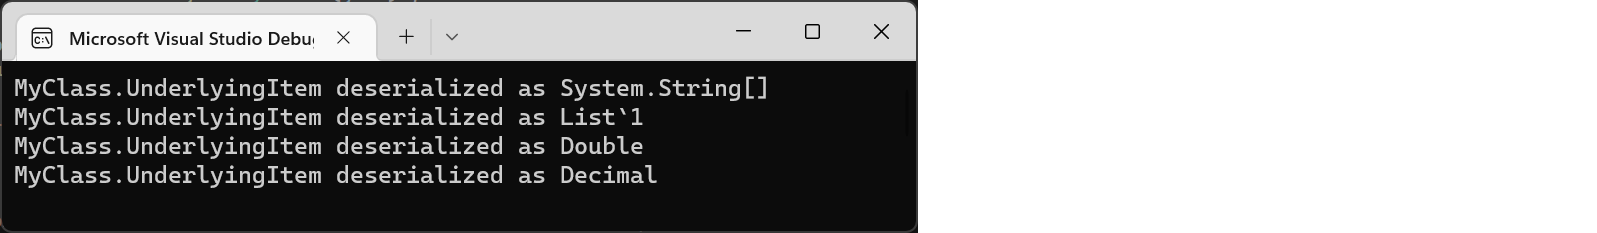
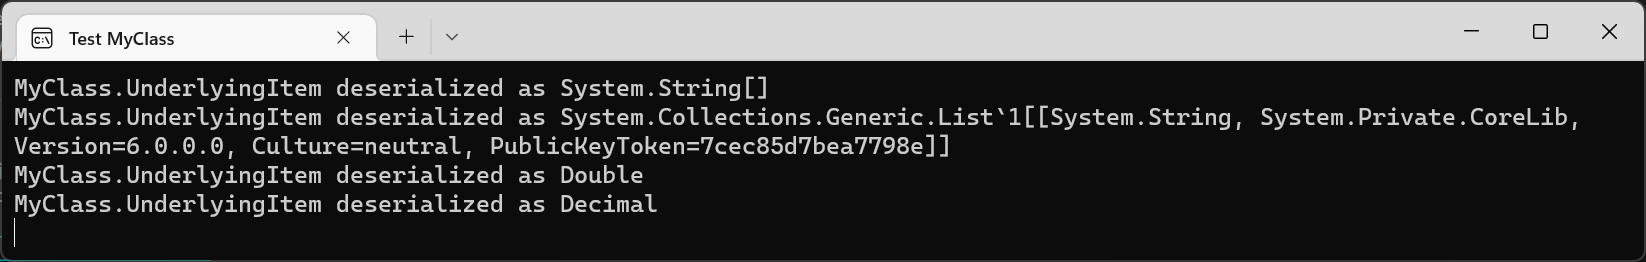
show fullname for generic list

diff --git a/type-from-string/Program.cs b/type-from-string/Program.cs
@@ -9,6 +9,8 @@ var type = Type.GetType($"{full.qualified.typeName}");
 using Newtonsoft.Json;
 using System.Reflection;
 
+Console.Title = "Test MyClass";
+
 MyClass testRoundTripIn, testRoundTripOut;
 string json;
 Type returnedType;
@@ -45,14 +47,13 @@ testRoundTripOut = JsonConvert.DeserializeObject<MyClass>(json);
 returnedType = testRoundTripOut.UnderlyingItem.GetType();
 if (typeof(List<string>).Equals(returnedType))
 {
-    Console.WriteLine($"MyClass.UnderlyingItem deserialized as {returnedType.Name}");
+    Console.WriteLine($"MyClass.UnderlyingItem deserialized as {returnedType.FullName}");
 }
 else
 {
     Console.WriteLine($"Error List<string> deserialized as {returnedType.FullName}");
 }
 #endregion  t e s t    L i s t < s t r i n g >
-
 
 #region  t e s t    d o u b l e
 testRoundTripIn = new MyClass
@@ -74,7 +75,6 @@ else
 }
 #endregion  t e s t    d o u b l e
 
-
 #region  t e s t    d e c i m a l
 testRoundTripIn = new MyClass
 {
@@ -94,6 +94,8 @@ else
     Console.WriteLine($"Error decimal deserialized as {returnedType.FullName}");
 }
 #endregion  t e s t     d e c i m a l
+
+Console.ReadKey();
     public class MyClass
     {
         public int Counter { get; set; }

diff --git a/README.md b/README.md
@@ -1,4 +1,4 @@
-Here's one possible scheme that, when tested with the four types mentioned by gunr2171, seems to work. It relies on a `UnderlyingTypeName` to serialize the full type name and meets the requirement that the `MyClass` cannot be generic.
+Here's one possible scheme that, when tested with the four types mentioned by gunr2171, seems to work. It adds an `UnderlyingTypeName` property to serialize the full type name and meets the requirement that the `MyClass` cannot be generic.
 
 The `UnderlyingItem` property itself is ignored by the json serializer. The getter for this property queries the loaded assemblies to find one containing the target type. If found, the json deserializer uses the specific type. Otherwise the default Json.Net deserializer is invoked.
 
@@ -54,7 +54,7 @@ The `UnderlyingItem` property itself is ignored by the json serializer. The gett
 
 **Testbench**
 
-[![four types][1]][1]
+[![test output showing four types][1]][1]
 
 `string[]`
 
@@ -141,4 +141,4 @@ The `UnderlyingItem` property itself is ignored by the json serializer. The gett
     }
 
 
-  [1]: https://i.stack.imgur.com/QItdj.png
+  [1]: https://i.stack.imgur.com/hiV4C.png
